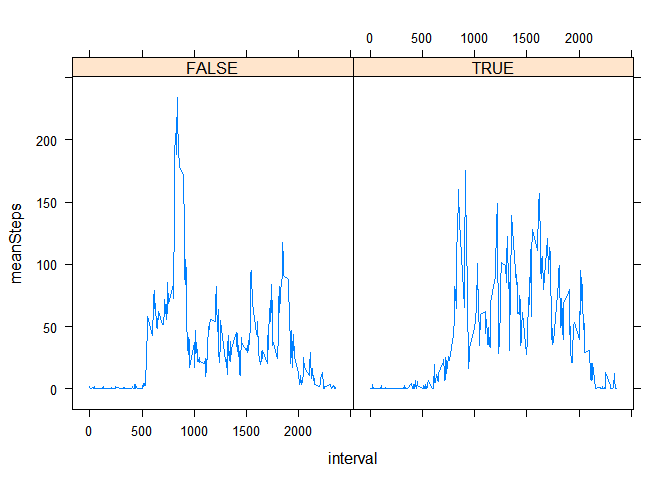
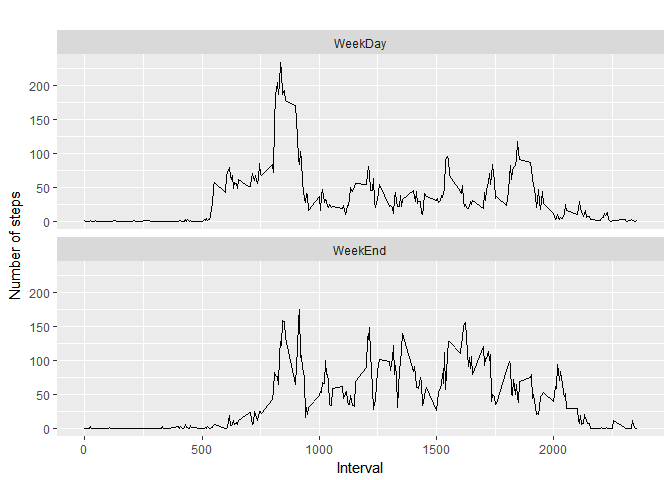
3rd cut

diff --git a/PA1_template.html b/PA1_template.html
@@ -122,7 +122,8 @@ $(document).ready(function () {
 
 <div id="load-packages" class="section level2">
 <h2>Load packages</h2>
-<pre class="r"><code>library(ggplot2)
+<pre class="r"><code>library(chron)
+library(ggplot2)
 library(dplyr)</code></pre>
 <pre><code>## 
 ## Attaching package: 'dplyr'</code></pre>
@@ -135,6 +136,9 @@ library(dplyr)</code></pre>
 <pre class="r"><code>library(lubridate)</code></pre>
 <pre><code>## 
 ## Attaching package: 'lubridate'</code></pre>
+<pre><code>## The following objects are masked from 'package:chron':
+## 
+##     days, hours, minutes, seconds, years</code></pre>
 <pre><code>## The following object is masked from 'package:base':
 ## 
 ##     date</code></pre>
@@ -188,21 +192,24 @@ ibyDay&lt;-inputed %&gt;% group_by(date) %&gt;% summarise(TotalSteps=sum(extra, 
 <pre><code>## [1] 10766.19</code></pre>
 <pre class="r"><code>median(ibyDay$TotalSteps)</code></pre>
 <pre><code>## [1] 10766.19</code></pre>
+<p>The total number of steps has gone up, as the missing values were previously implicitly counted as zero. Also, the median is now equal to the mean, as we have used the mean to fill the missing values. This will skew the centre of the distribution to the mean.</p>
 </div>
 <div id="are-there-differences-in-activity-patterns-between-weekdays-and-weekends" class="section level2">
 <h2>Are there differences in activity patterns between weekdays and weekends?</h2>
-<pre class="r"><code>library(chron)</code></pre>
-<pre><code>## 
-## Attaching package: 'chron'</code></pre>
-<pre><code>## The following objects are masked from 'package:lubridate':
-## 
-##     days, hours, minutes, seconds, years</code></pre>
-<pre class="r"><code>inputed$isweekend&lt;-is.weekend(inputed$date)
+<pre class="r"><code>inputed$isweekend&lt;-as.factor(ifelse(is.weekend(inputed$date), &quot;WeekEnd&quot;, &quot;WeekDay&quot;))
 
-byIntervalw&lt;-inputed %&gt;% group_by(interval, isweekend) %&gt;% summarise(AverageSteps=median(steps, na.rm=TRUE), meanSteps=mean(steps, na.rm=TRUE))
-library(lattice)
-xyplot(data = byIntervalw, meanSteps ~ interval | isweekend, type=&quot;l&quot;)</code></pre>
[1 lines of base64/hex data omitted]
+byIntervalw&lt;-inputed %&gt;% group_by(interval, isweekend) %&gt;% summarise(MedianSteps=median(steps, na.rm=TRUE), MeanSteps=mean(steps, na.rm=TRUE))
+qplot(interval, 
+      MeanSteps, 
+      data = byIntervalw, 
+      type = 'l', 
+      geom=c(&quot;line&quot;),
+      xlab = &quot;Interval&quot;, 
+      ylab = &quot;Number of steps&quot;, 
+      main = &quot;&quot;) +
+  facet_wrap(~ isweekend, ncol = 1)</code></pre>
+<pre><code>## Warning: Ignoring unknown parameters: type</code></pre>
[1 lines of base64/hex data omitted]
 </div>
 
 

diff --git a/PA1_template.md b/PA1_template.md
@@ -4,6 +4,7 @@
 ## Load packages
 
 ```r
+library(chron)
 library(ggplot2)
 library(dplyr)
 ```
@@ -32,6 +33,12 @@ library(lubridate)
 ```
 ## 
 ## Attaching package: 'lubridate'
+```
+
+```
+## The following objects are masked from 'package:chron':
+## 
+##     days, hours, minutes, seconds, years
 ```
 
 ```
@@ -155,32 +162,28 @@ median(ibyDay$TotalSteps)
 ## [1] 10766.19
 ```
 
-
+The total number of steps has gone up, as the missing values were previously implicitly counted as zero. Also, the median is now equal to the mean, as we have used the mean to fill the missing values. This will skew the centre of the distribution to the mean.
 
 
 ## Are there differences in activity patterns between weekdays and weekends?
 
 ```r
-library(chron)
+inputed$isweekend<-as.factor(ifelse(is.weekend(inputed$date), "WeekEnd", "WeekDay"))
+
+byIntervalw<-inputed %>% group_by(interval, isweekend) %>% summarise(MedianSteps=median(steps, na.rm=TRUE), MeanSteps=mean(steps, na.rm=TRUE))
+qplot(interval, 
+      MeanSteps, 
+      data = byIntervalw, 
+      type = 'l', 
+      geom=c("line"),
+      xlab = "Interval", 
+      ylab = "Number of steps", 
+      main = "") +
+  facet_wrap(~ isweekend, ncol = 1)
 ```
 
 ```
-## 
-## Attaching package: 'chron'
-```
-
-```
-## The following objects are masked from 'package:lubridate':
-## 
-##     days, hours, minutes, seconds, years
-```
-
-```r
-inputed$isweekend<-is.weekend(inputed$date)
-
-byIntervalw<-inputed %>% group_by(interval, isweekend) %>% summarise(AverageSteps=median(steps, na.rm=TRUE), meanSteps=mean(steps, na.rm=TRUE))
-library(lattice)
-xyplot(data = byIntervalw, meanSteps ~ interval | isweekend, type="l")
+## Warning: Ignoring unknown parameters: type
 ```
 
 ![](PA1_template_files/figure-html/unnamed-chunk-12-1.png)<!-- -->
